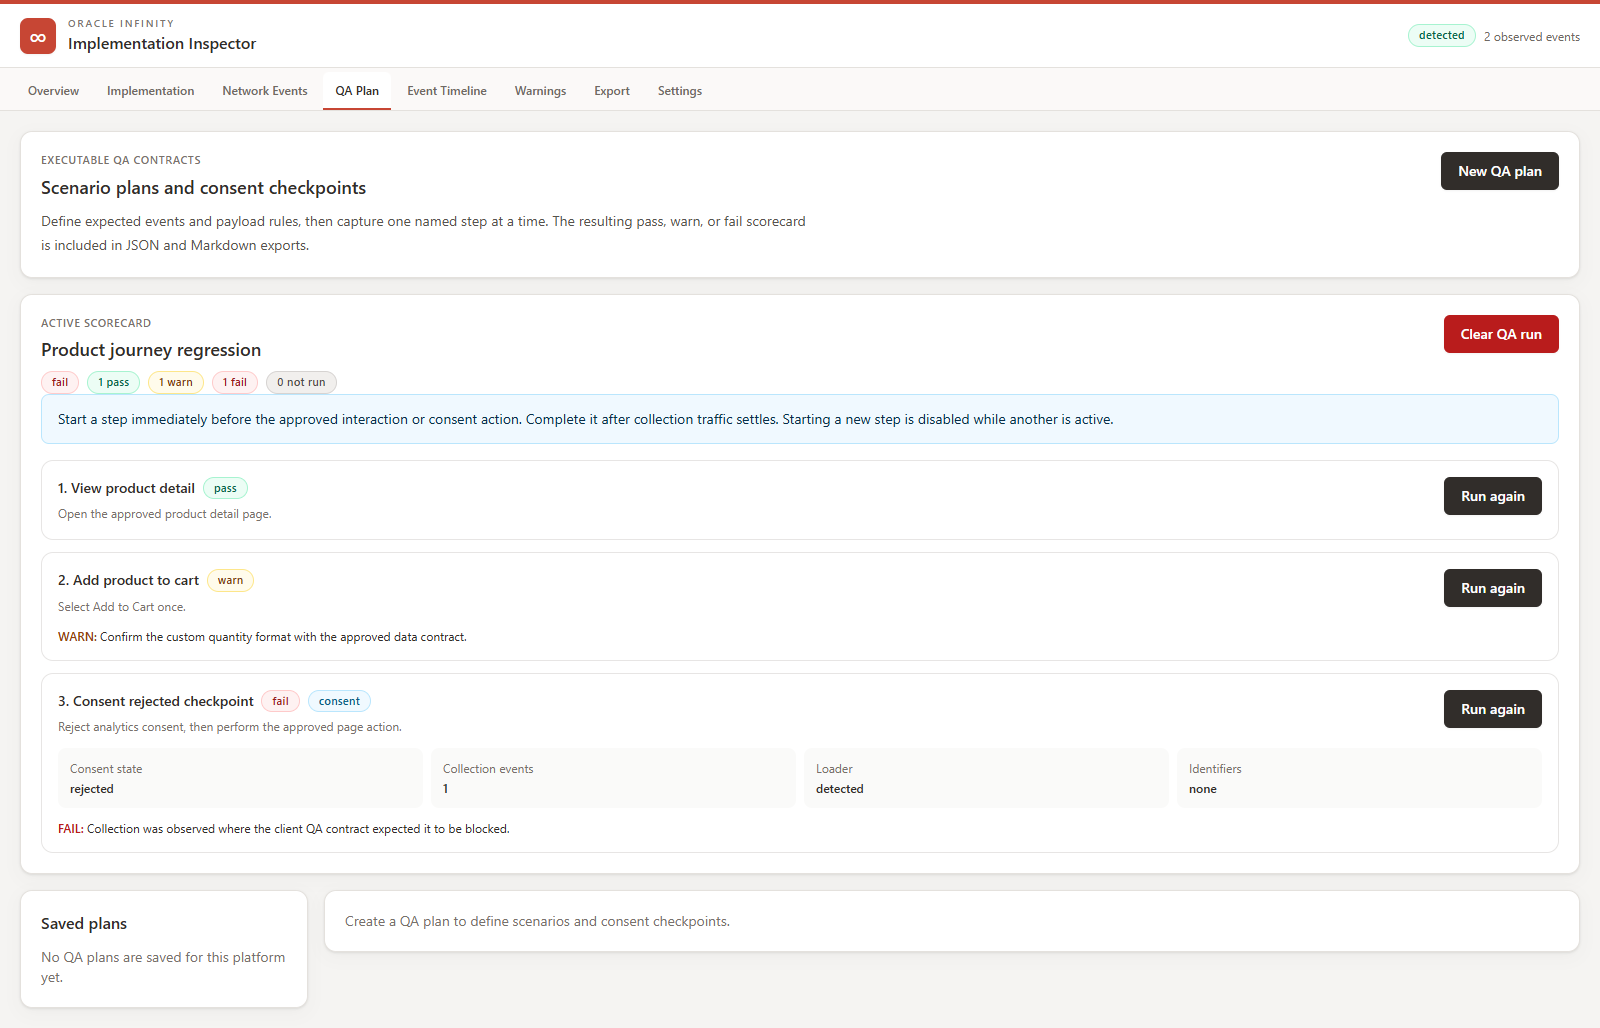
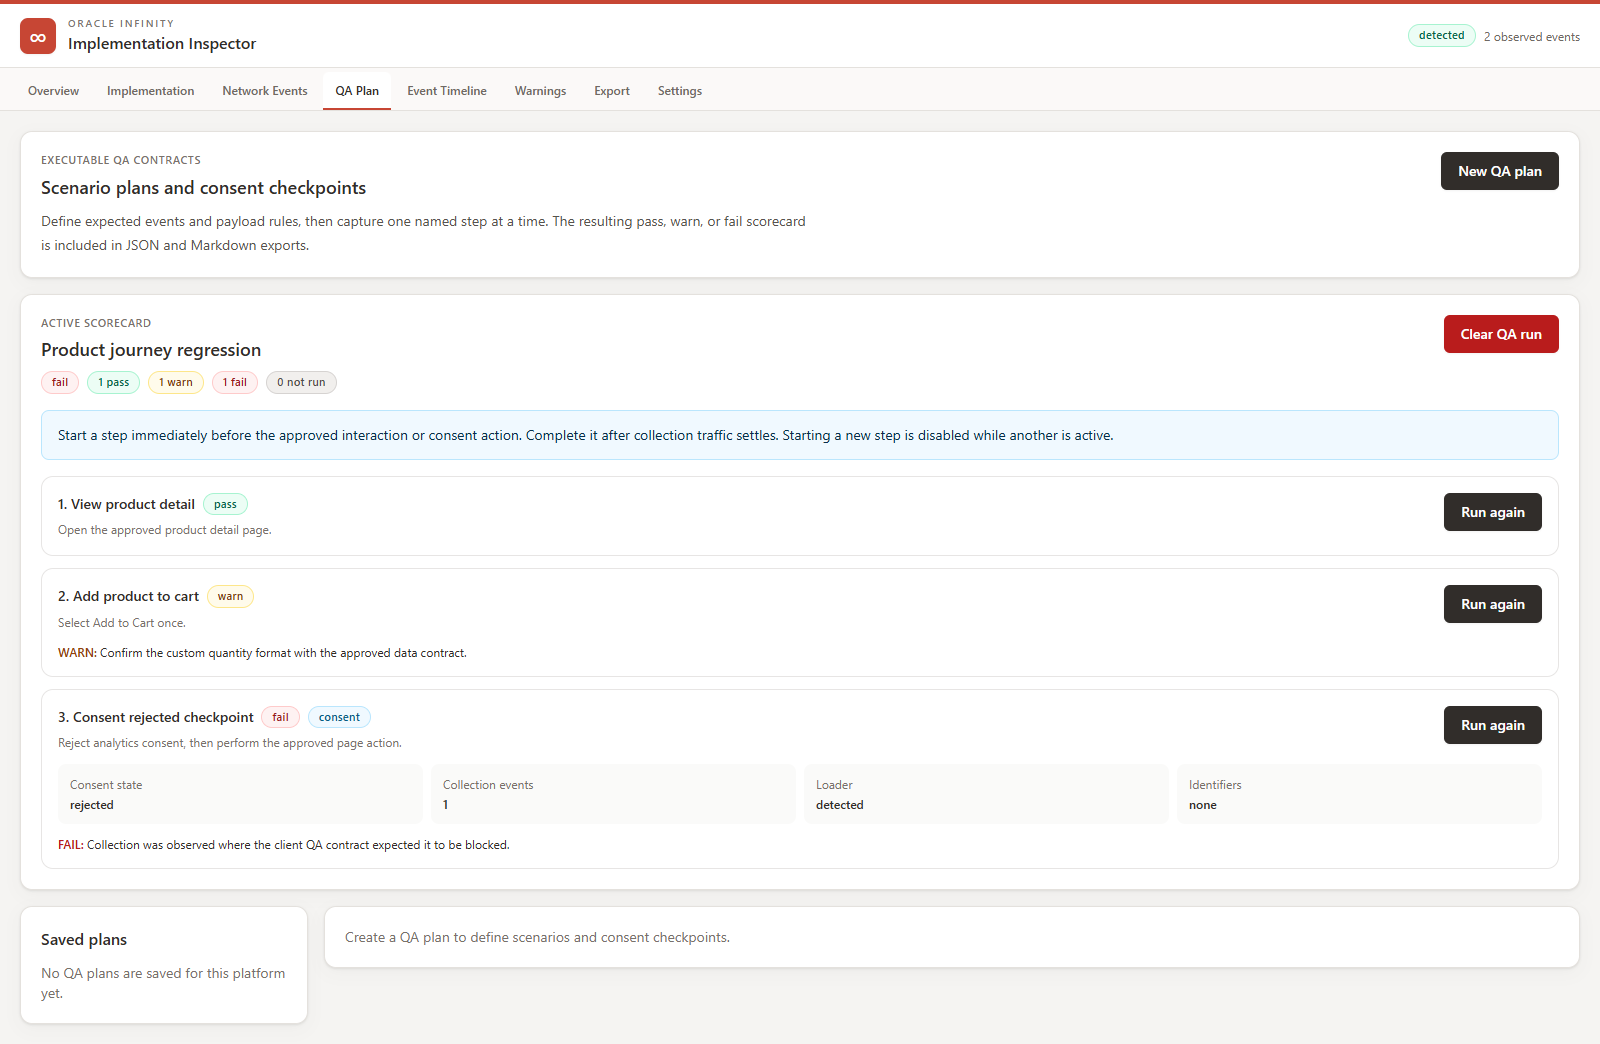
fix: restore QA scorecard notice spacing

diff --git a/src/components/qa/QaPlanTab.tsx b/src/components/qa/QaPlanTab.tsx
@@ -783,10 +783,12 @@ function RunScorecard({
           Clear QA run
         </Button>
       </div>
-      <Notice>
-        Start a step immediately before the approved interaction or consent action. Complete it
-        after collection traffic settles. Starting a new step is disabled while another is active.
-      </Notice>
+      <div className="mt-4">
+        <Notice>
+          Start a step immediately before the approved interaction or consent action. Complete it
+          after collection traffic settles. Starting a new step is disabled while another is active.
+        </Notice>
+      </div>
       <div className="mt-4 space-y-3">
         {run.steps.map((stepRun, index) => {
           const active = run.activeStepId === stepRun.step.id;

diff --git a/tests/unit/qaScenarioAcceptance.test.ts b/tests/unit/qaScenarioAcceptance.test.ts
@@ -209,9 +209,9 @@ describe('multi-step QA scenario acceptance', () => {
       networkObservations: [],
       parameters: [],
     });
-    const report = createExportReport(postNavigationSession, '0.5.0', run);
-    const jsonReport = JSON.parse(exportReportJson(postNavigationSession, '0.5.0', run));
-    const markdownReport = exportReportMarkdown(postNavigationSession, '0.5.0', run);
+    const report = createExportReport(postNavigationSession, '0.5.1', run);
+    const jsonReport = JSON.parse(exportReportJson(postNavigationSession, '0.5.1', run));
+    const markdownReport = exportReportMarkdown(postNavigationSession, '0.5.1', run);
 
     expect(ExportedDiagnosticReportSchema.safeParse(report).success).toBe(true);
     expect(report.events.map((event) => event.id)).toEqual([

diff --git a/tests/unit/qaExport.test.ts b/tests/unit/qaExport.test.ts
@@ -143,8 +143,8 @@ describe('QA report export', () => {
     );
     const currentSession = sessionFixture({ networkObservations: [] });
 
-    const report = createExportReport(currentSession, '0.5.0', runCompleted);
-    const markdown = exportReportMarkdown(currentSession, '0.5.0', runCompleted);
+    const report = createExportReport(currentSession, '0.5.1', runCompleted);
+    const markdown = exportReportMarkdown(currentSession, '0.5.1', runCompleted);
 
     expect(report.qaScorecard).toMatchObject({
       planName: 'Checkout QA',

diff --git a/src/components/export/ExportTab.tsx b/src/components/export/ExportTab.tsx
@@ -12,7 +12,7 @@ export function ExportTab({ session, qaRun }: { session: DiagnosticSession; qaRu
   const adapter = platformAdapterForSession(session);
   const [copied, setCopied] = useState(false);
   const [clientDataAcknowledged, setClientDataAcknowledged] = useState(false);
-  const version = typeof chrome !== 'undefined' ? chrome.runtime.getManifest().version : '0.5.0';
+  const version = typeof chrome !== 'undefined' ? chrome.runtime.getManifest().version : '0.5.1';
   const report = useMemo(
     () => createExportReport(session, version, qaRun),
     [session, version, qaRun],

diff --git a/src/features/export/exportJson.ts b/src/features/export/exportJson.ts
@@ -58,7 +58,7 @@ function createQaEvent(
 
 export function createExportReport(
   session: DiagnosticSession,
-  extensionVersion = '0.5.0',
+  extensionVersion = '0.5.1',
   qaRun?: QaPlanRun,
 ): ExportedDiagnosticReport {
   const adapter = platformAdapterForSession(session);

diff --git a/CHANGELOG.md b/CHANGELOG.md
@@ -4,6 +4,12 @@ All notable changes to Oracle Infinity Inspector are documented here.
 
 ## Unreleased
 
+## 0.5.1 - 2026-07-14
+
+### Fixed
+
+- Restored consistent vertical spacing above the active QA scorecard guidance notice and refreshed its documentation screenshot.
+
 ## 0.5.0 - 2026-07-14
 
 ### Added